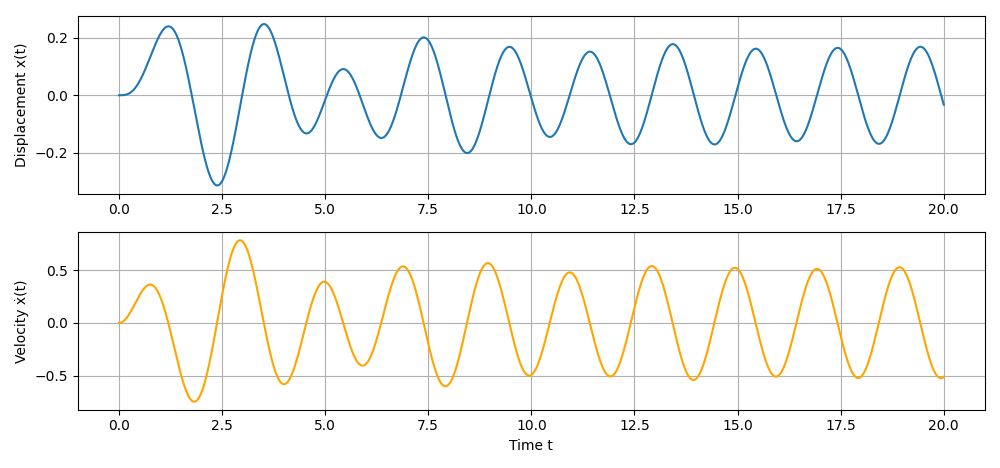
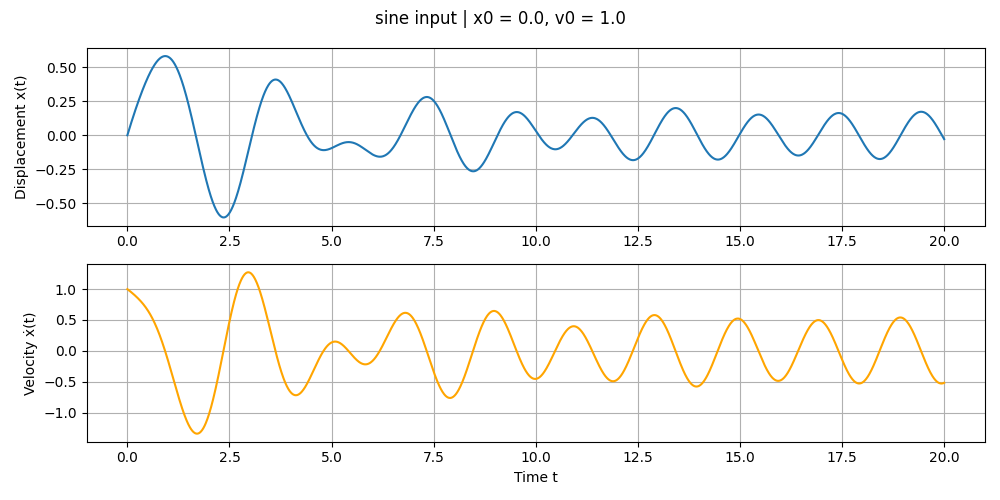
feat: major simulator refactor with class structure, signal types, and initial conditions; docs: update README; chore: add .gitignore

Changed region(s): [[0.0, 0.0299, 0.992, 0.9872], [0.124, 0.3291, 0.155, 0.359]]

diff --git a/msd_simulator.py b/msd_simulator.py
@@ -1,44 +1,142 @@
 import torch
 import matplotlib.pyplot as plt
+import pandas as pd
+import os
 
+# ------------------ System Parameters ------------------
+# These define how the oscillator behaves
+params = {
+    'm': 1.0,   # mass (kg)
+    'd': 0.5,   # damping coefficient (Ns/m)
+    'c': 4.0    # spring stiffness (N/m)
+}
 
-m, d, c = 1.0, 0.5, 4.0
-t = torch.linspace(0, 10, 1000)
-dt = t[1] - t[0]
+# ------------------ Input Signal Functions ------------------
+# Different kinds of force inputs applied to the system
 
+def sin_input(t):
+    """Smooth sinusoidal input"""
+    return torch.sin(2 * torch.pi * 0.5 * t)
 
-def F(t): return torch.sin(2 * torch.pi * 0.5 * t)
+def step_input(t):
+    """Step input turns on at t=1"""
+    return torch.tensor(1.0) if t > 1 else torch.tensor(0.0)
 
+def square_wave_input(t):
+    """Alternating on/off square wave"""
+    return torch.sign(torch.sin(2 * torch.pi * 0.2 * t))
 
-def state_derivative(x, t_i):
-    x1, x2 = x[0], x[1]
-    force = F(t_i)
-    dx1 = x2
-    dx2 = (force - d * x2 - c * x1) / m
-    return torch.tensor([dx1, dx2])
+def impulse_input(t):
+    """Sharp impulse at t=1"""
+    return torch.tensor(10.0) if abs(t - 1) < 0.01 else torch.tensor(0.0)
 
+# ------------------ Oscillator Class ------------------
+class Oscillator:
+    def __init__(self, p, input_function):
+        self.p = p  # System parameters (m, d, c)
+        self.input_function = input_function  # External force function
 
-x = torch.zeros((len(t), 2))
-x[0, 0] = 0.0
-x[0, 1] = 1.0
+    def f(self, x, t):
+        """Compute derivatives of displacement and velocity"""
+        m, d, c = self.p['m'], self.p['d'], self.p['c']
+        x1, x2 = x[0], x[1]
+        force = self.input_function(t)
+        dx1 = x2
+        dx2 = (force - d * x2 - c * x1) / m
+        return torch.tensor([dx1, dx2])
 
+    def step(self, x, t, dt):
+        """Euler integration step"""
+        dx = self.f(x, t)
+        return x + dx * dt
 
-for i in range(1, len(t)):
-    dx = state_derivative(x[i-1], t[i-1])
-    x[i] = x[i-1] + dx * dt
+    def predict(self, x0, t_span):
+        """Simulate full trajectory over time"""
+        dt = t_span[1] - t_span[0]
+        x = torch.zeros((len(t_span), 2))  # [displacement, velocity]
+        x[0] = x0
+        for i in range(1, len(t_span)):
+            x[i] = self.step(x[i - 1], t_span[i - 1], dt)
+        return x
 
+    def visualize(self, t_span, x, title=None, save_path=None):
+        """Plot and optionally save the displacement and velocity"""
+        plt.figure(figsize=(10, 5))
 
-plt.figure(figsize=(10, 5))
-plt.subplot(2, 1, 1)
-plt.plot(t, x[:, 0])
-plt.ylabel("Displacement x(t)")
-plt.grid(True)
+        # Displacement
+        plt.subplot(2, 1, 1)
+        plt.plot(t_span, x[:, 0], label='x(t)')
+        plt.ylabel("Displacement x(t)")
+        plt.grid(True)
 
+        # Velocity
+        plt.subplot(2, 1, 2)
+        plt.plot(t_span, x[:, 1], label='ẋ(t)', color='orange')
+        plt.ylabel("Velocity ẋ(t)")
+        plt.xlabel("Time t")
+        plt.grid(True)
 
-plt.subplot(2, 1, 2)
-plt.plot(t, x[:, 1])
-plt.ylabel("Velocity ẋ(t)")
-plt.xlabel("Time t")
-plt.grid(True)
-plt.tight_layout()
-plt.show()
+        if title:
+            plt.suptitle(title)
+
+        plt.tight_layout()
+
+        if save_path:
+            plt.savefig(save_path)
+            plt.close()
+        else:
+            plt.show()
+
+# ------------------ Dataset Generation ------------------
+
+# Create output folder in the same directory as the script
+script_dir = os.path.dirname(os.path.abspath(__file__))
+output_dir = os.path.join(script_dir, "sim_dataset")
+os.makedirs(output_dir, exist_ok=True)
+
+# Time vector: simulate for 20 seconds at high resolution
+t = torch.linspace(0, 20, 2000)
+
+# Initial conditions: different starting positions/velocities
+initial_conditions = [
+    torch.tensor([0.0, 1.0]),
+    torch.tensor([1.0, 0.0]),
+    torch.tensor([0.5, -0.5]),
+    torch.tensor([0.0, 0.0])
+]
+
+# Dictionary of input functions and their labels
+input_functions = {
+    "sine": sin_input,
+    "step": step_input,
+    "square_wave": square_wave_input,
+    "impulse": impulse_input
+}
+
+# Run simulations for all combinations of input and initial condition
+for input_name, input_fn in input_functions.items():
+    for x0 in initial_conditions:
+        osc = Oscillator(params, input_fn)
+        x_sim = osc.predict(x0, t)
+
+        # Save CSV data
+        filename_csv = os.path.join(
+            output_dir,
+            f"{input_name}_x0_{x0[0].item()}_v0_{x0[1].item()}.csv"
+        )
+        df = pd.DataFrame({
+            'time': t.numpy(),
+            'x': x_sim[:, 0].numpy(),
+            'xdot': x_sim[:, 1].numpy()
+        })
+        df.to_csv(filename_csv, index=False)
+
+        # Save graph image
+        plot_title = f"{input_name} input | x0 = {x0[0].item()}, v0 = {x0[1].item()}"
+        filename_png = os.path.join(
+            output_dir,
+            f"{input_name}_x0_{x0[0].item()}_v0_{x0[1].item()}.png"
+        )
+        osc.visualize(t, x_sim, title=plot_title, save_path=filename_png)
+
+print("✅ All 16 simulations complete. CSVs and plots saved to:", output_dir)

diff --git a/README.md b/README.md
@@ -1,109 +1,140 @@
 # 🌀 Mass-Spring-Damper Simulator (Torch)
 
-This project simulates a **mass-spring-damper (MSD)** system using **PyTorch** for numerical integration and **Matplotlib** for visualization. The simulation models the system's time-domain response to a sinusoidal external force.
+This project simulates a **mass-spring-damper** system using **PyTorch** for numerical integration and **Matplotlib** for visualization. It generates time-domain responses under various excitation types and saves the output as `.csv` and `.png`.
 
 ---
 
 ## 🧠 Background
 
-A mass-spring-damper system is a classic second-order mechanical system governed by the differential equation:
+A mass-spring-damper system is a classic second-order mechanical system governed by the ODE:
 
-m * x''(t) + d * x'(t) + c * x(t) = F(t)
-
+```
+m.ẍ(t) + d.ẋ(t) + c.x(t) = F(t)
+```
 
 Where:
-- `m` is the mass,
-- `d` is the damping coefficient,
-- `c` is the spring stiffness,
-- `F(t)` is the external force applied (in this simulation: sinusoidal),
-- `x(t)` is displacement, and `x'(t)` is velocity.
+- `m` = mass  
+- `d` = damping coefficient  
+- `c` = spring stiffness  
+- `F(t)` = external force (sin, step, square wave, impulse)  
+- `x(t)` = displacement  
+- `ẋ(t)` = velocity  
+- `ẍ(t)` = acceleration
 
 ---
 
 ## 🛠 Technologies Used
 
-- 🐍 **Python 3**
-- 🔥 **PyTorch** – used for tensor operations and numerical integration
-- 📊 **Matplotlib** – used for plotting displacement and velocity over time
+- 🐍 Python 3
+- 🔥 PyTorch — for modeling and numerical integration
+- 📊 Matplotlib — for plotting simulation results
+- 📄 Pandas — for saving `.csv` files
 
 ---
 
-## 📁 File Overview
+## 📁 Project Structure
 
-- `msd_simulator.py`:  
-  Main script that:
-  - Defines system parameters
-  - Simulates motion via numerical integration
-  - Plots the results
-
----
-
-## ⚙ Parameters Used
-
-```python
-m = 1.0    # mass (kg)
-d = 0.5    # damping coefficient
-c = 4.0    # spring constant
-F(t) = sin(2π·0.5·t)  # external sinusoidal force
+```
+├── msd_simulator.py        # Main simulation script
+├── README.md               # Project description
+├── .gitignore              # Ensures sim_dataset/ is not tracked by Git
+└── sim_dataset/            # Auto-generated output folder (plots + CSVs)
 ```
 
-- Initial conditions:
-  - Displacement: x(0) = 0
-  - Velocity: x'(0) = 1
+---
+
+<details>
+<summary><strong>⚙ Simulation Settings</strong></summary>
+
+### System Parameters
+
+```python
+params = {
+  'm': 1.0,    # mass (kg)
+  'd': 0.5,    # damping (Ns/m)
+  'c': 4.0     # spring constant (N/m)
+}
+```
+
+### Input Signal Types
+- `sine`: smooth periodic signal
+- `step`: jumps from 0 to 1 at t=1
+- `square_wave`: toggles between -1 and 1
+- `impulse`: sharp pulse at t=1
+
+### Initial Conditions Used
+- `[0.0, 1.0]`  
+- `[1.0, 0.0]`  
+- `[0.5, -0.5]`  
+- `[0.0, 0.0]`  
+
+</details>
 
 ---
 
-## 📈 Output
+<details>
+<summary><strong>📤 Output Details</strong></summary>
 
-The script produces two plots:
-1. **Displacement** over time
-2. **Velocity** over time
+- A total of **16 simulations** are performed: 4 inputs × 4 initial conditions
+- Each result is saved in:
+  - `.csv` with `time`, `x`, `xdot`
+  - `.png` plot of displacement and velocity
 
-These plots show the damped oscillatory behavior under sinusoidal excitation.
+### Output Folder
+```
+sim_dataset/
+├── sine_x0_0.0_v0_1.0.csv
+├── sine_x0_0.0_v0_1.0.png
+├── ...
+```
+
+</details>
 
 ---
 
 ## ▶ How to Run
 
-### 1. Install dependencies:
-
 ```bash
-pip install torch matplotlib
-```
+# Step 1: Install dependencies
+pip install torch matplotlib pandas
 
-### 2. Run the script:
-
-```bash
+# Step 2: Run the simulation
 python msd_simulator.py
 ```
 
-The simulation will run and display the displacement and velocity plots.
+> This creates a `sim_dataset/` folder in the **same directory as the script**.
 
 ---
 
-## 🧪 Simulation Plot
+## 🧪 Example Output Plot
 
-![Simulation Output](output.png)
+Each plot includes:
+- Displacement `x(t)`
+- Velocity `ẋ(t)`
 
-_(Note: Image shown here is an example illustration of a damped oscillator)_
+Example:
+![Example](output.png)
 
 ---
 
-## 📌 Notes
+## 📝 Notes
 
-- This is a basic simulation using explicit Euler integration (via forward stepping in PyTorch).
-- You can modify parameters to simulate different types of damping (under/over/critical).
+- Euler integration is used (explicit method).
+- Easy to modify or extend for:
+  - Nonlinear dynamics
+  - Stochastic excitation
+  - Custom simulation ranges
 
 ---
 
 ## 📚 References
 
-- [Wikipedia: Damped Harmonic Oscillator](https://en.wikipedia.org/wiki/Damped_harmonic_oscillator)
-- [PyTorch Documentation](https://pytorch.org/docs/stable/index.html)
-- [Matplotlib Documentation](https://matplotlib.org/stable/contents.html)
+- [Damped Harmonic Oscillator – Wikipedia](https://en.wikipedia.org/wiki/Damped_harmonic_oscillator)
+- [PyTorch Docs](https://pytorch.org/docs/stable/index.html)
+- [Matplotlib Docs](https://matplotlib.org/stable/contents.html)
 
 ---
 
 ## 📜 License
 
-This project is for educational use. Feel free to modify and experiment!
+This repository is intended for educational and experimental use. Contributions are welcome!
